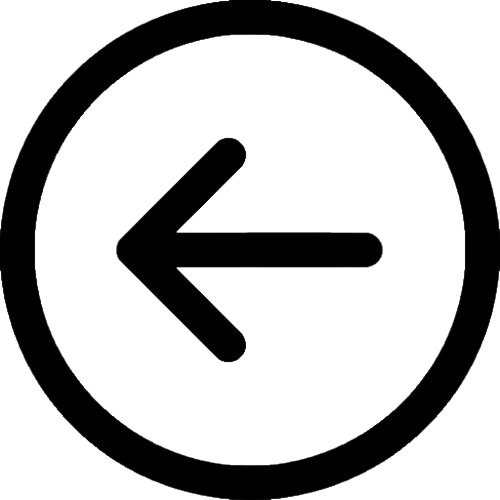
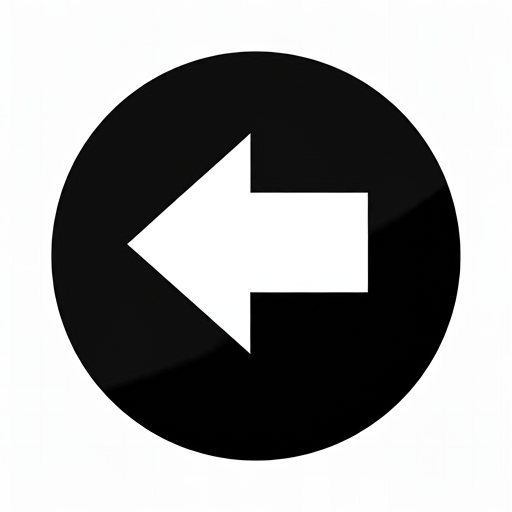
Atualização card esquerdo workspace

diff --git a/src/app/home-workspace/home-workspace.component.css b/src/app/home-workspace/home-workspace.component.css
@@ -62,10 +62,29 @@
     background-color: rgb(0, 0, 0, 0);
 }
 
-.mais{
-    height: 30px;
-    width: auto;
-    cursor: pointer;
+.fotoDados{
+  position: relative;
+  display: flex;
+  flex-direction: row;
+  gap: 30px; 
+  align-items: center; 
+  margin-top: 20px;
+  background-color: rgb(222, 226, 230,0.2);
+  box-shadow: 0px 4px 8px rgba(0, 0, 0, 0.1);
+  padding: 15px;
+  border-radius: 10px; 
+}
+.return {
+  position: absolute;
+  top: 10px;
+  left: -2px; 
+  margin-left: 8px;
+  z-index: 1000;
+}
+.mais, .voltar{
+  height: 30px;
+  width: auto;
+  cursor: pointer;
 }
 
 #fotoPerfil{
@@ -75,15 +94,6 @@
     margin-left: 1dvw;
 }
 
-.fotoDados{
-    display: flex;
-    flex-direction: row;
-    gap: 30px; 
-    align-items: center; 
-    margin-top: 20px;
-    background-color: rgb(222, 226, 230,0.2);
-    box-shadow: 0px 4px 8px rgba(0, 0, 0, 0.1);
-  }
 
 .consultas {
     background-color: #f8f9fa;

diff --git a/src/app/home-workspace/home-workspace.component.html b/src/app/home-workspace/home-workspace.component.html
@@ -29,6 +29,9 @@
     <div class="menuEsquerdo">
 
         <div class="fotoDados">
+            <div class="return">
+                <a (click)="returnCard()" class="voltarPagina"><img class="voltar" src="voltar.png"></a>
+            </div>
             <div class="fotoPerfil">
                 <img id="fotoPerfil" src="img-paciente.png" alt="foto Paciente">
             </div>

diff --git a/src/app/home-workspace/home-workspace.component.ts b/src/app/home-workspace/home-workspace.component.ts
@@ -81,6 +81,10 @@ export class HomeWorkspaceComponent {
     this.showPacienteWorkspace = !this.showPacienteWorkspace;
     this.showCards = false;
   }
+  returnCard() {
+    this.showCards = !this.showCards;
+    this.showPacienteWorkspace = false;
+}
 
   selecionarAba(aba: string) {
     this.abaSelecionada = aba;
